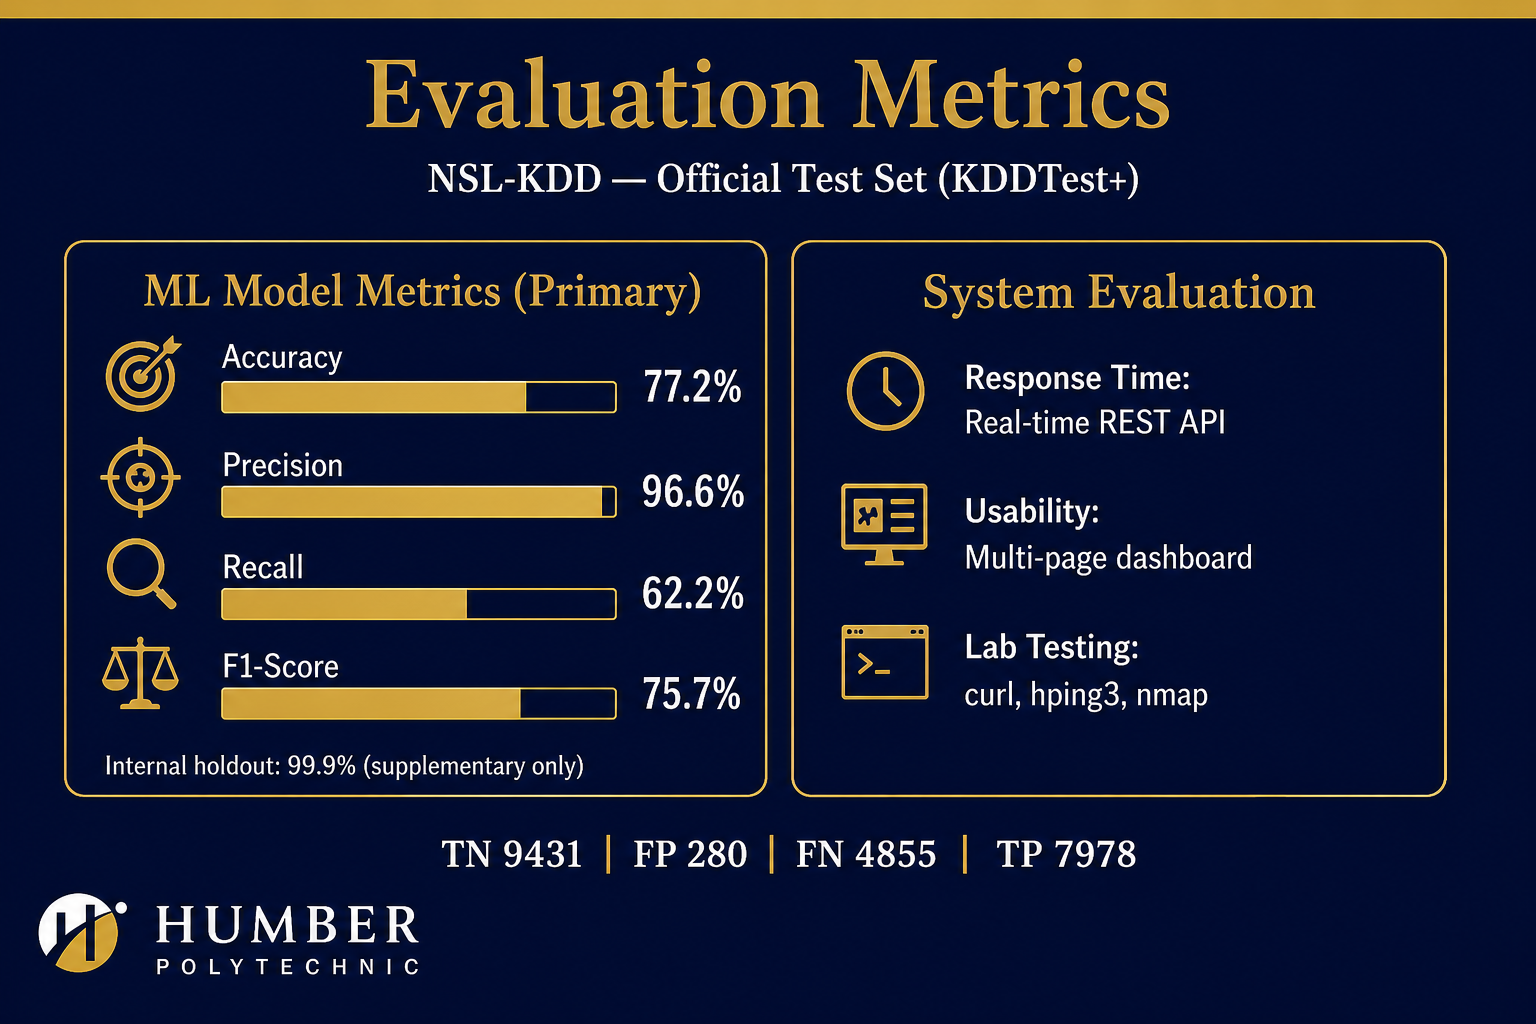
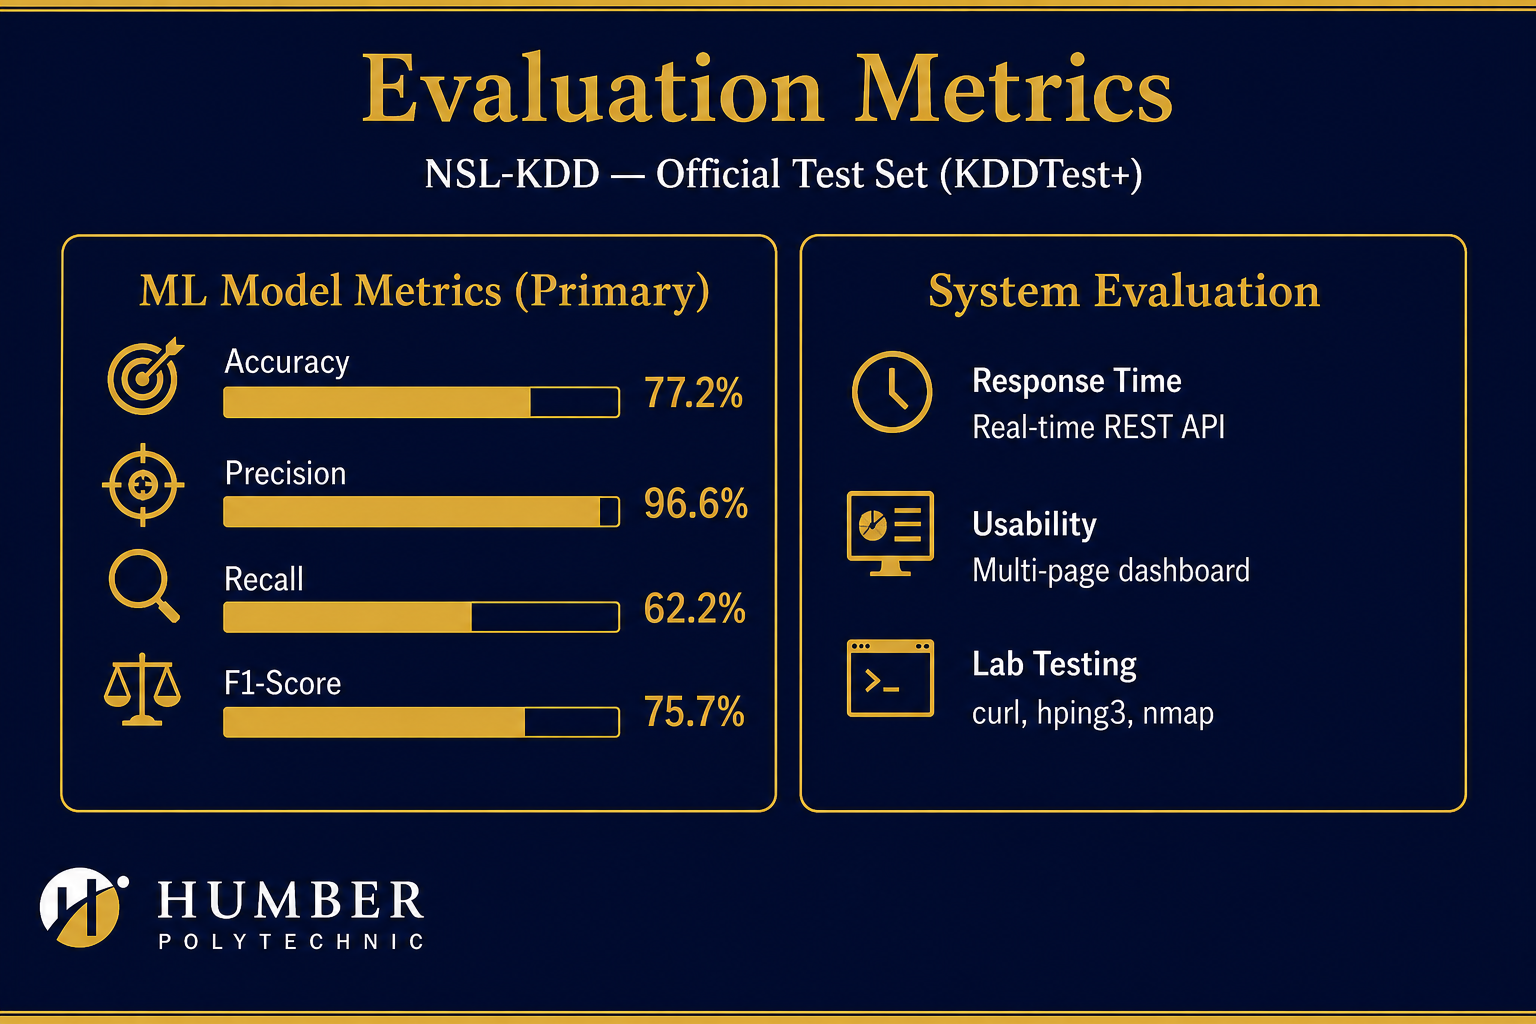
docs updated

diff --git a/docs/NetGuard-AI-Presentation.md b/docs/NetGuard-AI-Presentation.md
@@ -68,7 +68,7 @@ Design and implement an ML-based network monitoring system that detects suspicio
 |---|-----------|--------|
 | 1 | Capture and analyze network traffic | ✅ Live sniffer + manual API |
 | 2 | Extract essential traffic features | ✅ 41 NSL-KDD-style features per window |
-| 3 | Train ML model on public IDS datasets | ✅ Random Forest on NSL-KDD |
+| 3 | Train ML model on public IDS datasets | ✅ Random Forest on NSL-KDD; evaluated on official KDDTest+ |
 | 4 | Classify traffic as normal or suspicious | ✅ Binary classification + attack types |
 | 5 | Store detection logs in PostgreSQL | ✅ `traffic_logs` + `alerts` tables |
 | 6 | Visualize results in a web interface | ✅ Multi-page React dashboard |
@@ -106,7 +106,7 @@ Design and implement an ML-based network monitoring system that detects suspicio
 
 | Phase | Proposal | What we did |
 |-------|----------|-------------|
-| **1. Dataset** | Study NSL-KDD, CICIDS2017 | Trained on **NSL-KDD** (`train_real_dataset.py`) |
+| **1. Dataset** | Study NSL-KDD, CICIDS2017 | Trained on **`NSL-KDD-Train.csv`**; evaluated on official **`NSL-KDD-Test.txt`** (KDDTest+) via `train_real_dataset.py` |
 | **2. Preprocessing** | Clean, encode, normalize | Label encoding for protocol/service/flag; 41-feature schema |
 | **3. Model** | Random Forest classifier | 100 trees; binary Normal vs Suspicious |
 | **4. Backend** | Node.js API + PostgreSQL | Express/TypeScript; `/api/analyze`, `/api/logs`, `/api/alerts` |
@@ -224,8 +224,6 @@ Multi-page React UI with sticky navigation:
 
 ### ML model — official NSL-KDD test (KDDTest+)
 
-*Primary benchmark — report these numbers*
-
 | Metric | Result |
 |--------|--------|
 | Accuracy | **77.2%** |
@@ -234,23 +232,7 @@ Multi-page React UI with sticky navigation:
 | F1-Score (Suspicious) | **75.7%** |
 | Test samples | 22,544 |
 
-**Confusion matrix**
-
-|  | Pred. Normal | Pred. Suspicious |
-|--|--------------|------------------|
-| **Actual Normal** | 9,431 | 280 |
-| **Actual Suspicious** | 4,855 | 7,978 |
-
-*High precision → few false alarms. Lower recall → some attacks missed on official benchmark.*
-
-### ML model — internal holdout (secondary)
-
-| Metric | Result |
-|--------|--------|
-| Accuracy | 99.9% |
-| F1-Score | 99.9% |
-
-*20% split from training file — optimistic; supplementary only.*
+*High precision → few false alarms. Lower recall → some attacks missed on the official benchmark.*
 
 ### System evaluation
 

diff --git a/readme.md b/readme.md
@@ -11,7 +11,7 @@ Network intrusion detection demo: live packet capture → Express backend → Fa
 | **[docs/attack-readme.md](docs/attack-readme.md)** | **Attack demos: DoS, port scan, hping3, nmap, alert chain** |
 | [docs/testing-the-project.md](docs/testing-the-project.md) | Full install (Windows + Linux), train model, smoke tests |
 | [docs/slide-11-evaluation-analysis.md](docs/slide-11-evaluation-analysis.md) | Slide 11 — ML metrics analysis (official NSL-KDD test) |
-| [ml-service/docs/model_results.md](ml-service/docs/model_results.md) | Auto-generated training metrics |
+| [ml-service/docs/model_results.md](ml-service/docs/model_results.md) | Auto-generated metrics (official NSL-KDD test + internal holdout) |
 
 ## Quick start (Linux)
 
@@ -26,7 +26,7 @@ psql -U netguard_user -d netguard_ai -f backend/src/db/schema.sql
 # 2. ML model
 cd ml-service && python3 -m venv venv && source venv/bin/activate
 pip install -r requirements.txt
-cd model && python train_real_dataset.py   # needs NSL-KDD-Train.csv
+cd model && python train_real_dataset.py   # needs NSL-KDD-Train.csv; downloads NSL-KDD-Test.txt on first run
 
 # 3. Apps
 cd ../../backend && pnpm install
@@ -66,7 +66,7 @@ Restart backend after changing `.env`.
 
 ### Report statement
 
-The Random Forest classifier was trained using a processed subset of the NSL-KDD intrusion detection dataset. The model was configured as a binary classifier, categorizing network traffic into Normal and Suspicious classes. Performance was evaluated using accuracy, precision, recall, and F1-score metrics.
+The Random Forest classifier was trained on **`NSL-KDD-Train.csv`** and evaluated on the official NSL-KDD test set (**KDDTest+**, `NSL-KDD-Test.txt`). The model is a binary classifier (Normal vs Suspicious). On the official benchmark (22,544 held-out flows), it achieves **77.2% accuracy**, **96.6% precision**, **62.2% recall**, and **75.7% F1-score**. An internal 20% holdout from the training file scores ~99.9% but is supplementary only — report the official test metrics in presentations. Full results: [ml-service/docs/model_results.md](ml-service/docs/model_results.md).
 
 ---
 

diff --git a/docs/features-v1.md b/docs/features-v1.md
@@ -27,7 +27,8 @@ flowchart LR
 
 ### 1. ML-based traffic classification
 
-- **Random Forest** trained on **NSL-KDD** (41 features)
+- **Random Forest** trained on **`NSL-KDD-Train.csv`** (41 features)
+- Evaluated on the official **KDDTest+** benchmark (`NSL-KDD-Test.txt`) — **77.2% accuracy**, **75.7% F1** (see [model_results.md](../ml-service/docs/model_results.md))
 - Output: **Normal** or **Suspicious** + **attack probability** (0–1)
 - Handles protocol/service/flag encoding and probability threshold (`ML_THRESHOLD=0.4`)
 
@@ -138,4 +139,4 @@ See [readme.md](../readme.md#whitelist-local-testing-vs-production) for dev vs p
 
 ## Report statement (optional)
 
-The Random Forest classifier was trained using a processed subset of the NSL-KDD intrusion detection dataset. The model was configured as a binary classifier, categorizing network traffic into Normal and Suspicious classes. Performance was evaluated using accuracy, precision, recall, and F1-score metrics.
+The Random Forest classifier was trained on **`NSL-KDD-Train.csv`** and evaluated on the official NSL-KDD test set (**KDDTest+**, `NSL-KDD-Test.txt`). The model is a binary classifier (Normal vs Suspicious). On the official benchmark (22,544 held-out flows), it achieves **77.2% accuracy**, **96.6% precision**, **62.2% recall**, and **75.7% F1-score**. An internal 20% holdout from the training file scores ~99.9% but is supplementary only. Full results: [ml-service/docs/model_results.md](../ml-service/docs/model_results.md).

diff --git a/docs/testing-the-project.md b/docs/testing-the-project.md
@@ -19,8 +19,12 @@ These files are **gitignored** or must be created locally after clone:
 | `frontend/.env` | `frontend/` | Create from template in this doc (not committed) |
 | Python `venv/` | `ml-service/` | Create with `python -m venv venv` |
 | `node_modules/` | `backend/`, `frontend/` | `pnpm install` |
+| `NSL-KDD-Train.csv` | `ml-service/model/` | Download NSL-KDD training CSV before training (required) |
+| `NSL-KDD-Test.txt` | `ml-service/model/` | Auto-downloaded on first `train_real_dataset.py` run (official KDDTest+ benchmark) |
 
 **`NSL-KDD-Train.csv`** may or may not be in your clone (large dataset). If missing, download an NSL-KDD training CSV and save it as `ml-service/model/NSL-KDD-Train.csv` before training.
+
+**`NSL-KDD-Test.txt`** is the official held-out test set (KDDTest+). You do not need to download it manually — `train_real_dataset.py` fetches it on first run if absent. Keep both files; they serve different roles (train vs benchmark).
 
 The ML service **will not start** without `model.pkl` and `encoders.pkl`.
 
@@ -637,6 +641,7 @@ curl http://127.0.0.1:5000/api/logs | jq '.[0:3]'
 |---------|-----|
 | `FileNotFoundError: model.pkl` | Run `train_real_dataset.py` in `ml-service/model/` |
 | `NSL-KDD-Train.csv` not found | Download NSL-KDD; save as `ml-service/model/NSL-KDD-Train.csv` |
+| `NSL-KDD-Test.txt` missing | Re-run `train_real_dataset.py` — it auto-downloads KDDTest+; or delete a corrupt file and re-run |
 | ML service crashes on start | Check both `model.pkl` and `encoders.pkl` exist |
 | Backend `ECONNREFUSED` to ML | Start ML service on port 8000; check `ML_SERVICE_URL` |
 | Backend DB error | PostgreSQL running? Password in `backend/.env` correct? Schema applied? |

diff --git a/docs/presentation-speaker-notes.md b/docs/presentation-speaker-notes.md
@@ -186,7 +186,7 @@ This document explains **what each slide is for**, **what to say**, and **how to
 
 > Our methodology follows six phases.
 >
-> **Phase 1 — Dataset:** We studied NSL-KDD and CICIDS2017 as proposed; we **trained on NSL-KDD** using `train_real_dataset.py`.
+> **Phase 1 — Dataset:** We studied NSL-KDD and CICIDS2017 as proposed. We **trained on `NSL-KDD-Train.csv`** and **evaluated on the official test set** (`NSL-KDD-Test.txt`, KDDTest+) using `train_real_dataset.py` — the test file auto-downloads on first run if missing.
 >
 > **Phase 2 — Preprocessing:** We cleaned data, applied **label encoding** for protocol, service, and flag, and aligned a **41-feature schema** with our runtime API.
 >
@@ -542,7 +542,7 @@ Adjust for team size. Everyone should be able to answer one question on **archit
 
 | Question | Short answer |
 |----------|--------------|
-| What dataset? | NSL-KDD, binary Normal vs Suspicious |
+| What dataset? | **Train:** `NSL-KDD-Train.csv`. **Test:** official KDDTest+ (`NSL-KDD-Test.txt`). Binary Normal vs Suspicious. Report **77.2% accuracy** on official test. |
 | What algorithm? | Random Forest, 100 trees |
 | How is DoS detected? | count ≥ 200, serror_rate ≥ 0.8, dst_host_count ≥ 50 |
 | How is port scan detected? | count ≥ 50, unique_dport_count ≥ 20 |